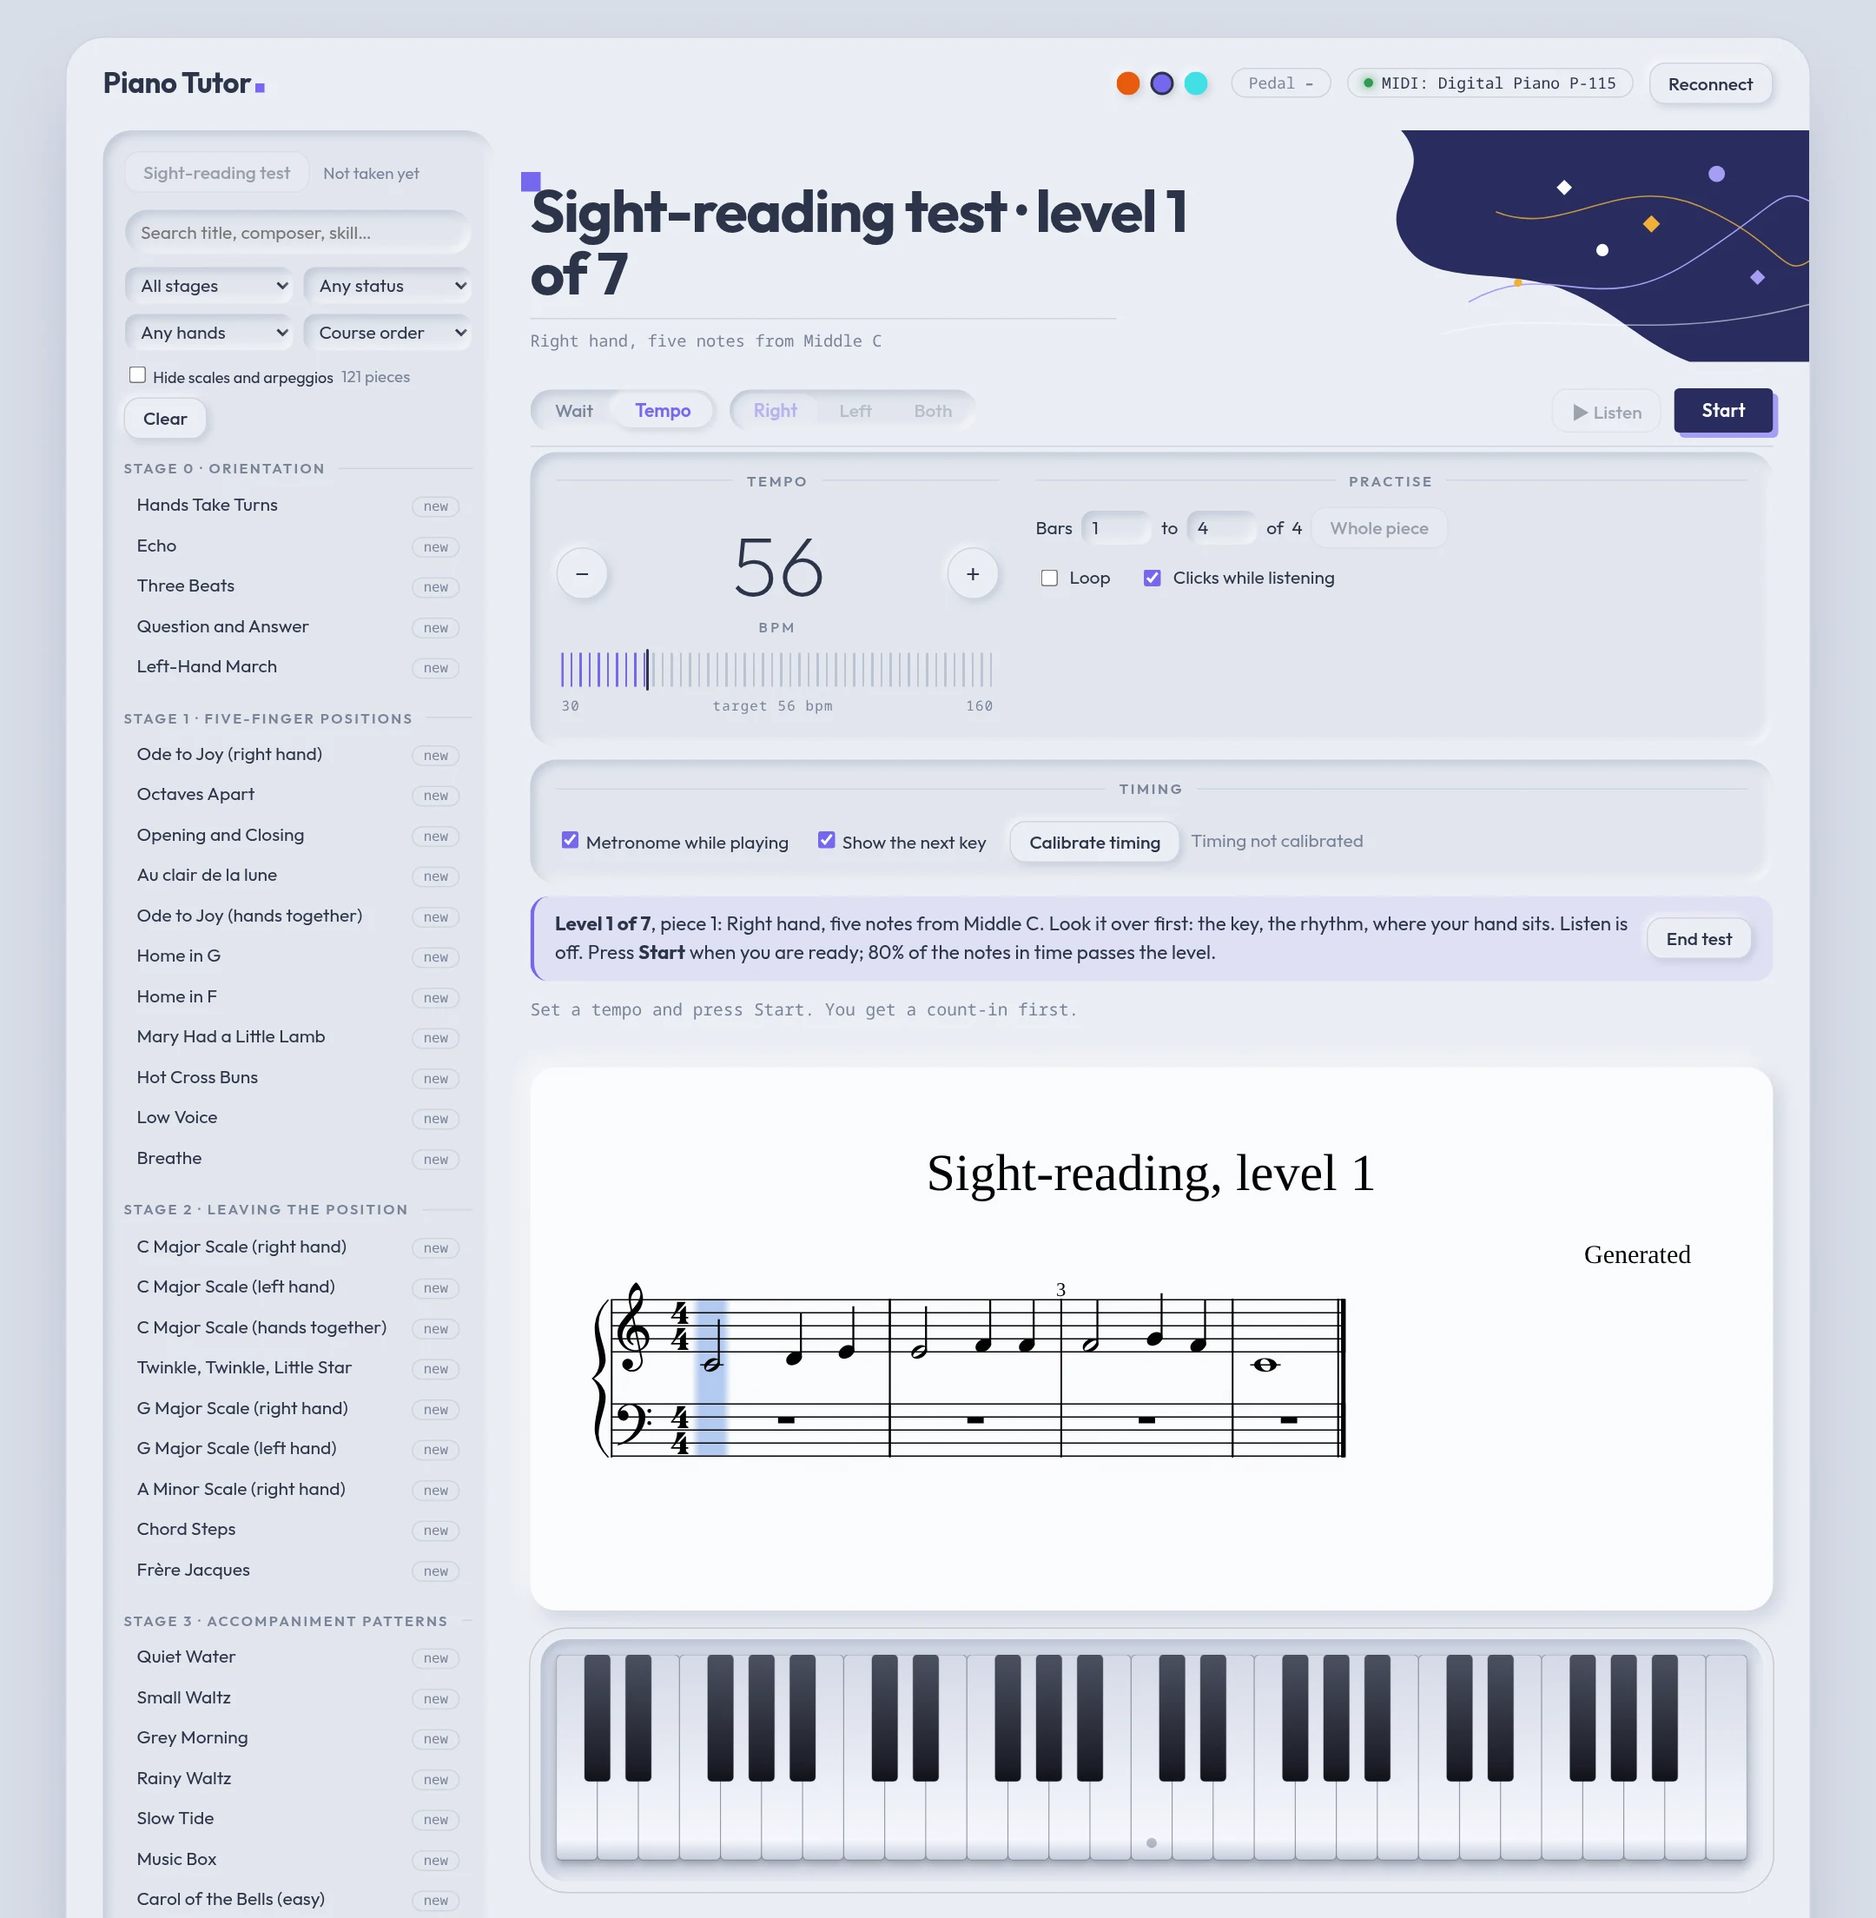
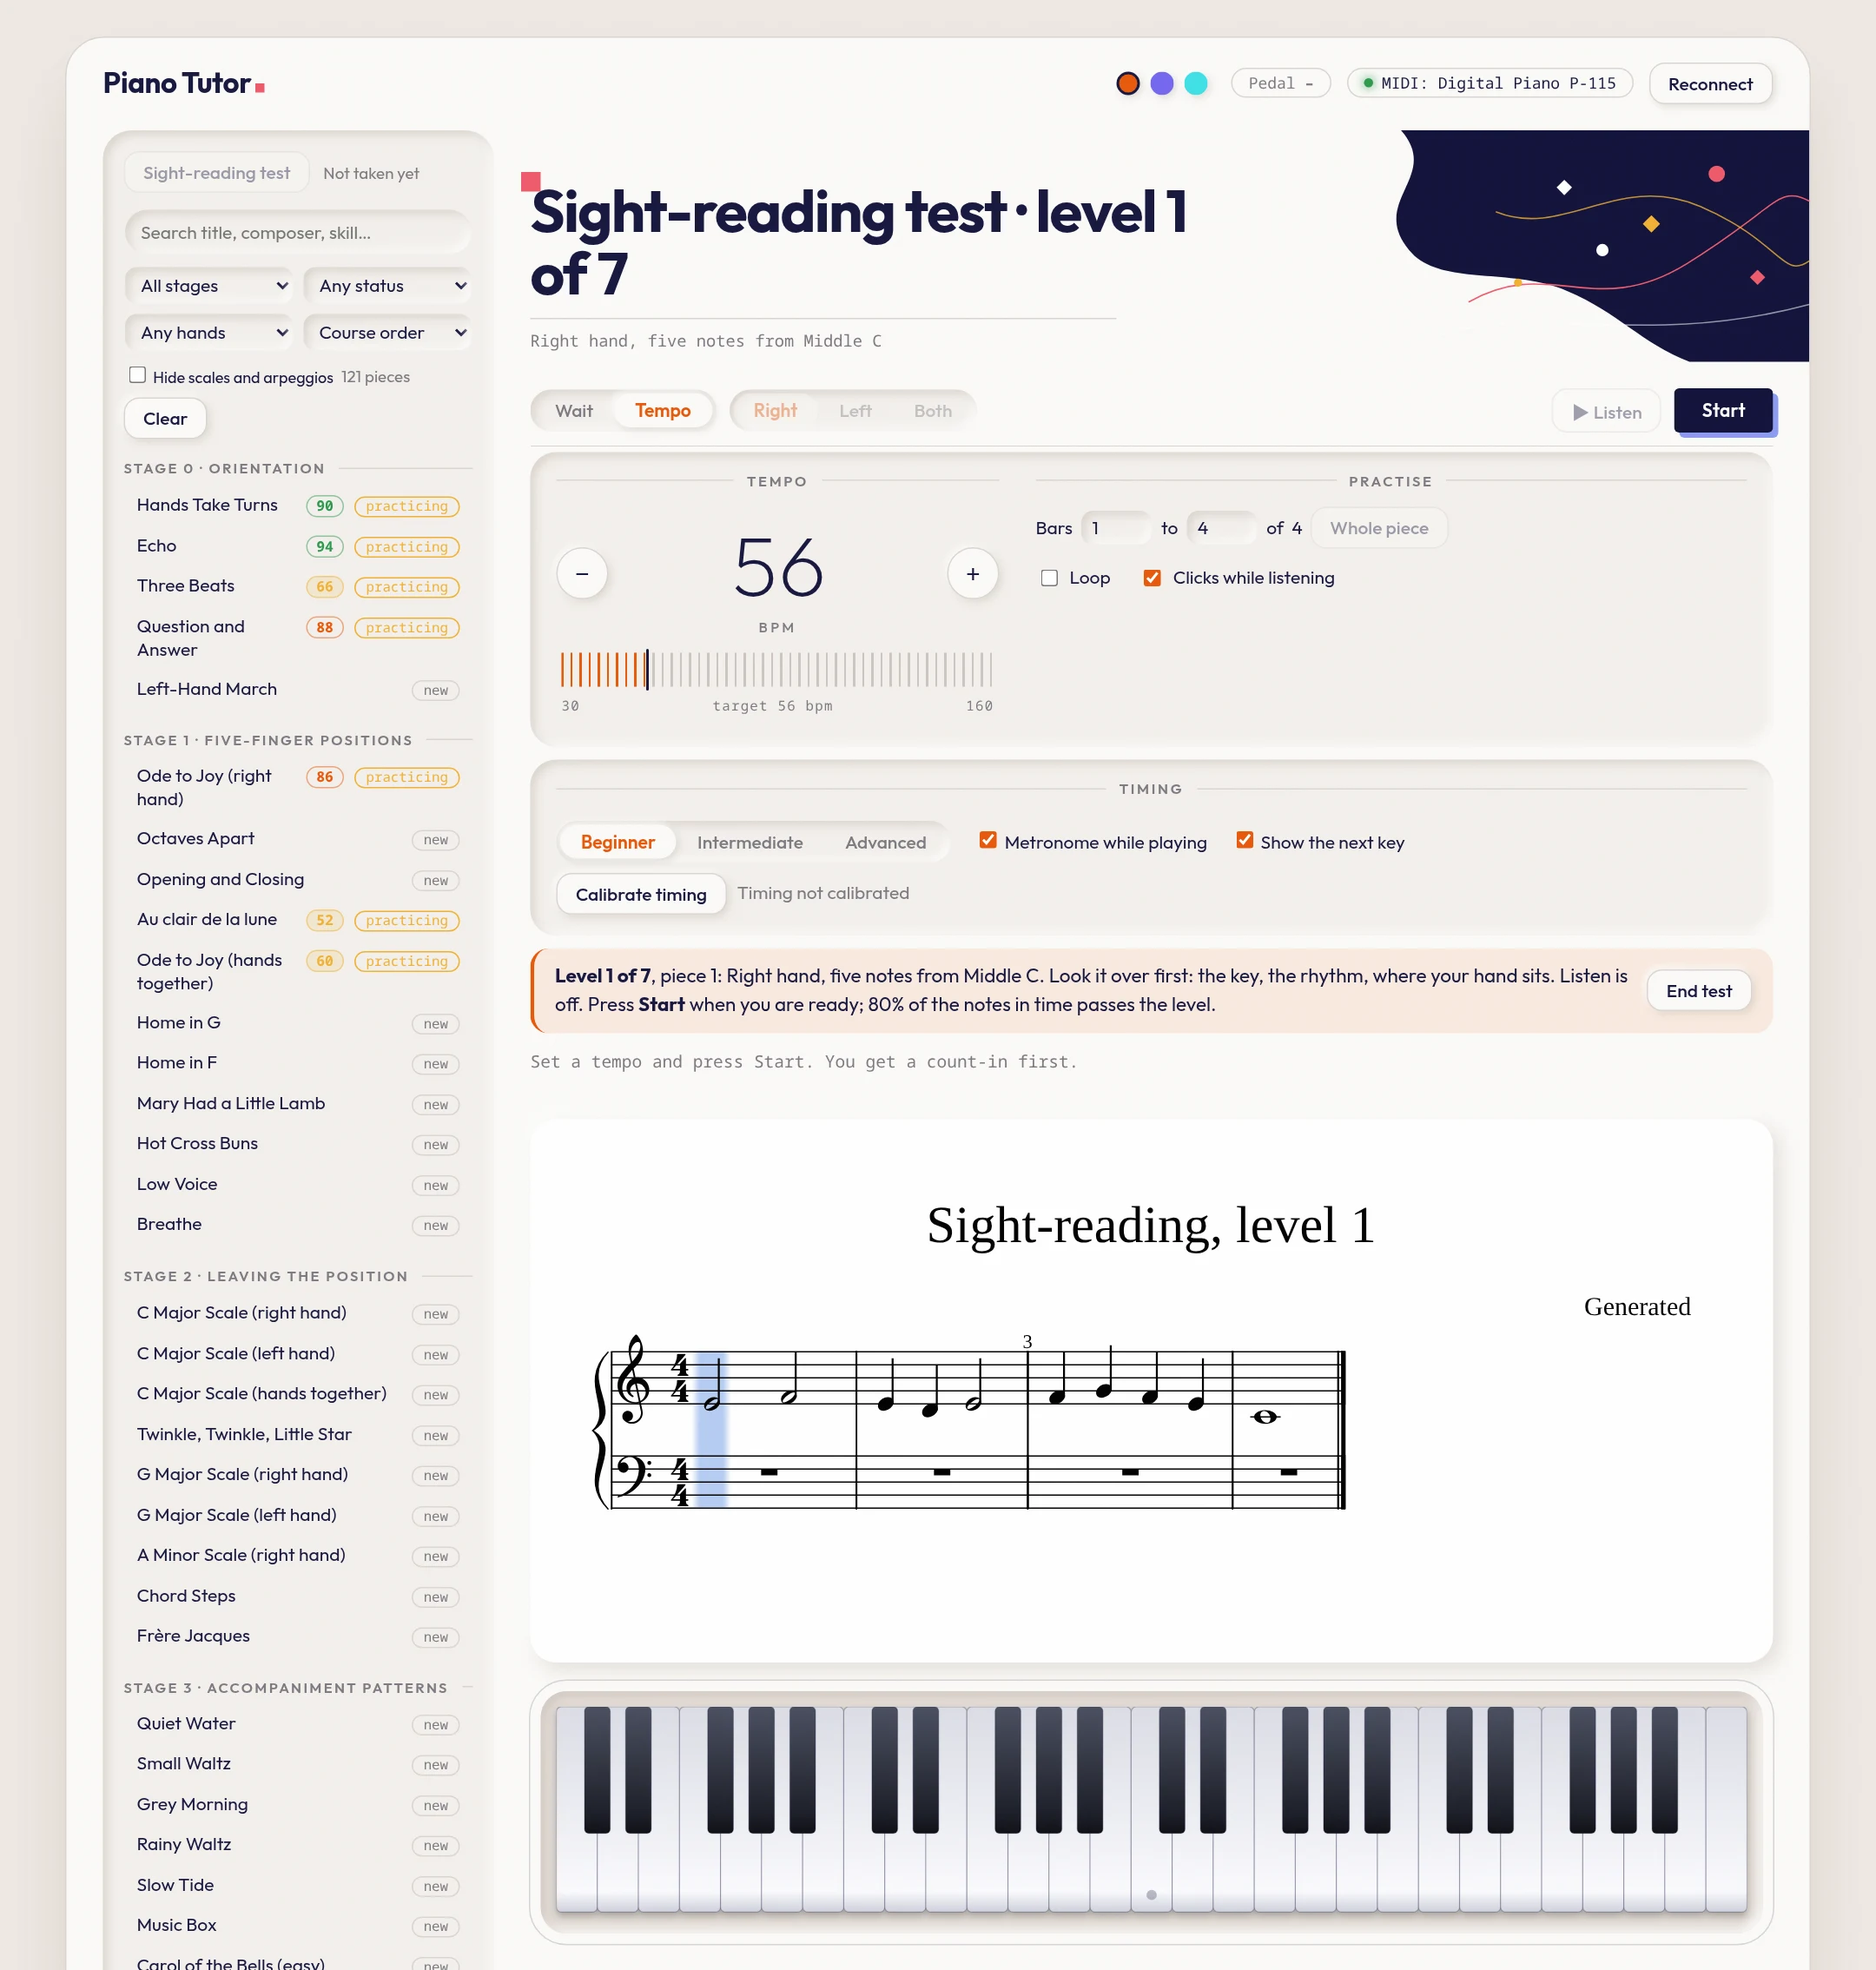
Update screenshots for scores, moving line and note marks

diff --git a/app/src/style.css b/app/src/style.css
@@ -273,6 +273,7 @@ main { min-width: 0; }
 .result p { margin: 0; }
 
 .progress { display: flex; flex-wrap: wrap; align-items: center; gap: 4px 16px; margin: 8px 0 0; font: 12.5px var(--mono); color: var(--muted); }
+.progress[hidden] { display: none; }
 .progress strong { color: var(--ink); font-size: 15px; }
 .progress-last strong, .progress-last .stars { color: var(--tone, var(--accent)); }
 .progress-flag { color: var(--warn); border: 1px solid var(--warn); border-radius: 999px; padding: 0 9px; }

diff --git a/app/src/main.ts b/app/src/main.ts
@@ -267,7 +267,7 @@ function showRunResult(text: string, run: RunRecord, earlier: readonly RunRecord
 /** Last, best and a sparkline of the latest scores for the open piece, under its title. */
 function renderProgress(): void {
   const el = $('progress');
-  if (!current) { el.hidden = true; return; }
+  if (!current || sight) { el.hidden = true; return; } // test runs are not logged: nothing to show
   const p = progressOf(log.forPiece(current.id));
   el.hidden = false;
   el.replaceChildren();

diff --git a/README.md b/README.md
@@ -12,15 +12,19 @@ MIDI keyboard, and you can also play with your computer keyboard or the mouse.
 
 ## Screenshots
 
-**Wait mode** (Warm theme). The cursor waits for the right notes. A wrong key gets a plain explanation, and the keyboard shows what you played.
+**Wait mode** (Warm theme). The cursor waits for the right notes. The notes you play appear on the staff, green when right and red when wrong, at the height of the key you pressed, with a plain explanation underneath. The line under the title is the piece's score history.
 
-![Wait mode on Ode to Joy, with feedback on a wrong note](docs/screenshots/wait-mode.webp)
+![Wait mode on Ode to Joy: a right chord in green, a wrong key in red, and the feedback line](docs/screenshots/wait-mode.webp)
 
-**Tempo mode** (Night theme). A metronome sets the pace and every note has a timing window. The key you should have played is outlined in green, and the status line counts what was in time, missed or extra.
+**Tempo mode** (Night theme). A metronome sets the pace and every note has a timing window. The thin line crossing the staves moves at your tempo, so you can see when to press. The key you should play next is outlined in green, and the status line counts what was in time, missed or extra.
 
-![Tempo mode with a missed note and an extra note](docs/screenshots/tempo-mode.webp)
+![Tempo mode with the moving line, a green hit and a red wrong key](docs/screenshots/tempo-mode.webp)
 
-**Sight-reading test** (Cold blues theme). Freshly generated pieces in seven levels, so you never see the same one twice.
+**Scores** (Cold blues theme). Every run gets a score out of 100 and up to three stars, with how it compares to your last run and your best. The library shows the last score of each piece you have played, and the sort "Needs practice first" puts the weakest at the top. The history in these screenshots is sample data.
+
+![Result card after a run: 90 out of 100, three stars, 14 better than last time](docs/screenshots/scores.webp)
+
+**Sight-reading test** (Warm theme). Freshly generated pieces in seven levels, so you never see the same one twice.
 
 ![Sight-reading test, level 1](docs/screenshots/sight-reading.webp)
 
